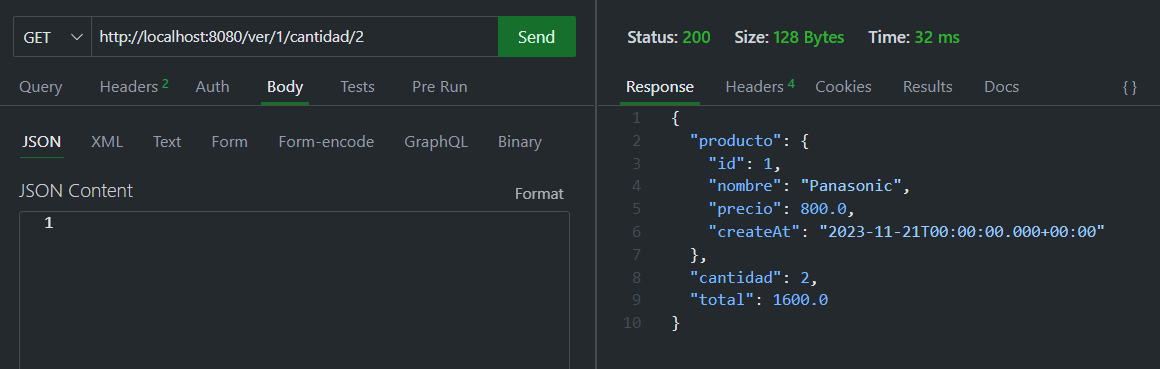
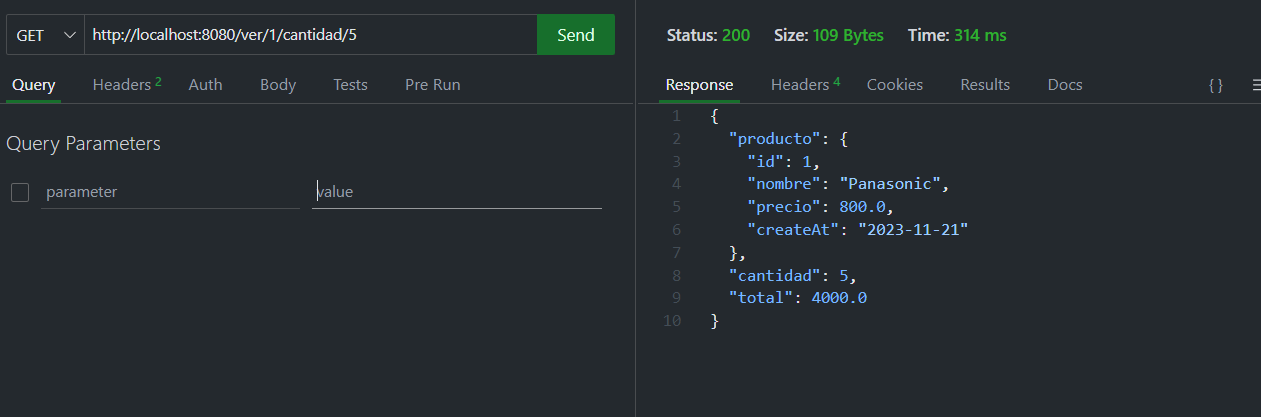
clix
update img

diff --git a/microservice-product/src/main/java/com/microserviceproduct/entities/Producto.java b/microservice-product/src/main/java/com/microserviceproduct/entities/Producto.java
@@ -1,10 +1,11 @@
 package com.microserviceproduct.entities;
-
 import jakarta.persistence.*;
 import lombok.AllArgsConstructor;
 import lombok.Data;
 import lombok.NoArgsConstructor;
 import java.util.Date;
+
+import com.fasterxml.jackson.annotation.JsonFormat;
 
 @Data
 @AllArgsConstructor
@@ -19,8 +20,10 @@ public class Producto {
     private Long id;
     private String nombre;
     private Double precio;
+
     @Column(name="create_at")
     @Temporal(TemporalType.DATE)
+    @JsonFormat(pattern="yyyy-MM-dd")
     private Date createAt;
 
 }

diff --git a/microservice-item/src/main/java/com/microserviceitem/models/Producto.java b/microservice-item/src/main/java/com/microserviceitem/models/Producto.java
@@ -7,6 +7,8 @@ import lombok.NoArgsConstructor;
 
 import java.util.Date;
 
+import com.fasterxml.jackson.annotation.JsonFormat;
+
 @Data
 @NoArgsConstructor
 @AllArgsConstructor
@@ -15,5 +17,6 @@ public class Producto {
     private Long id;
     private String nombre;
     private Double precio;
+    @JsonFormat(pattern="yyyy-MM-dd")
     private Date createAt;
 }
